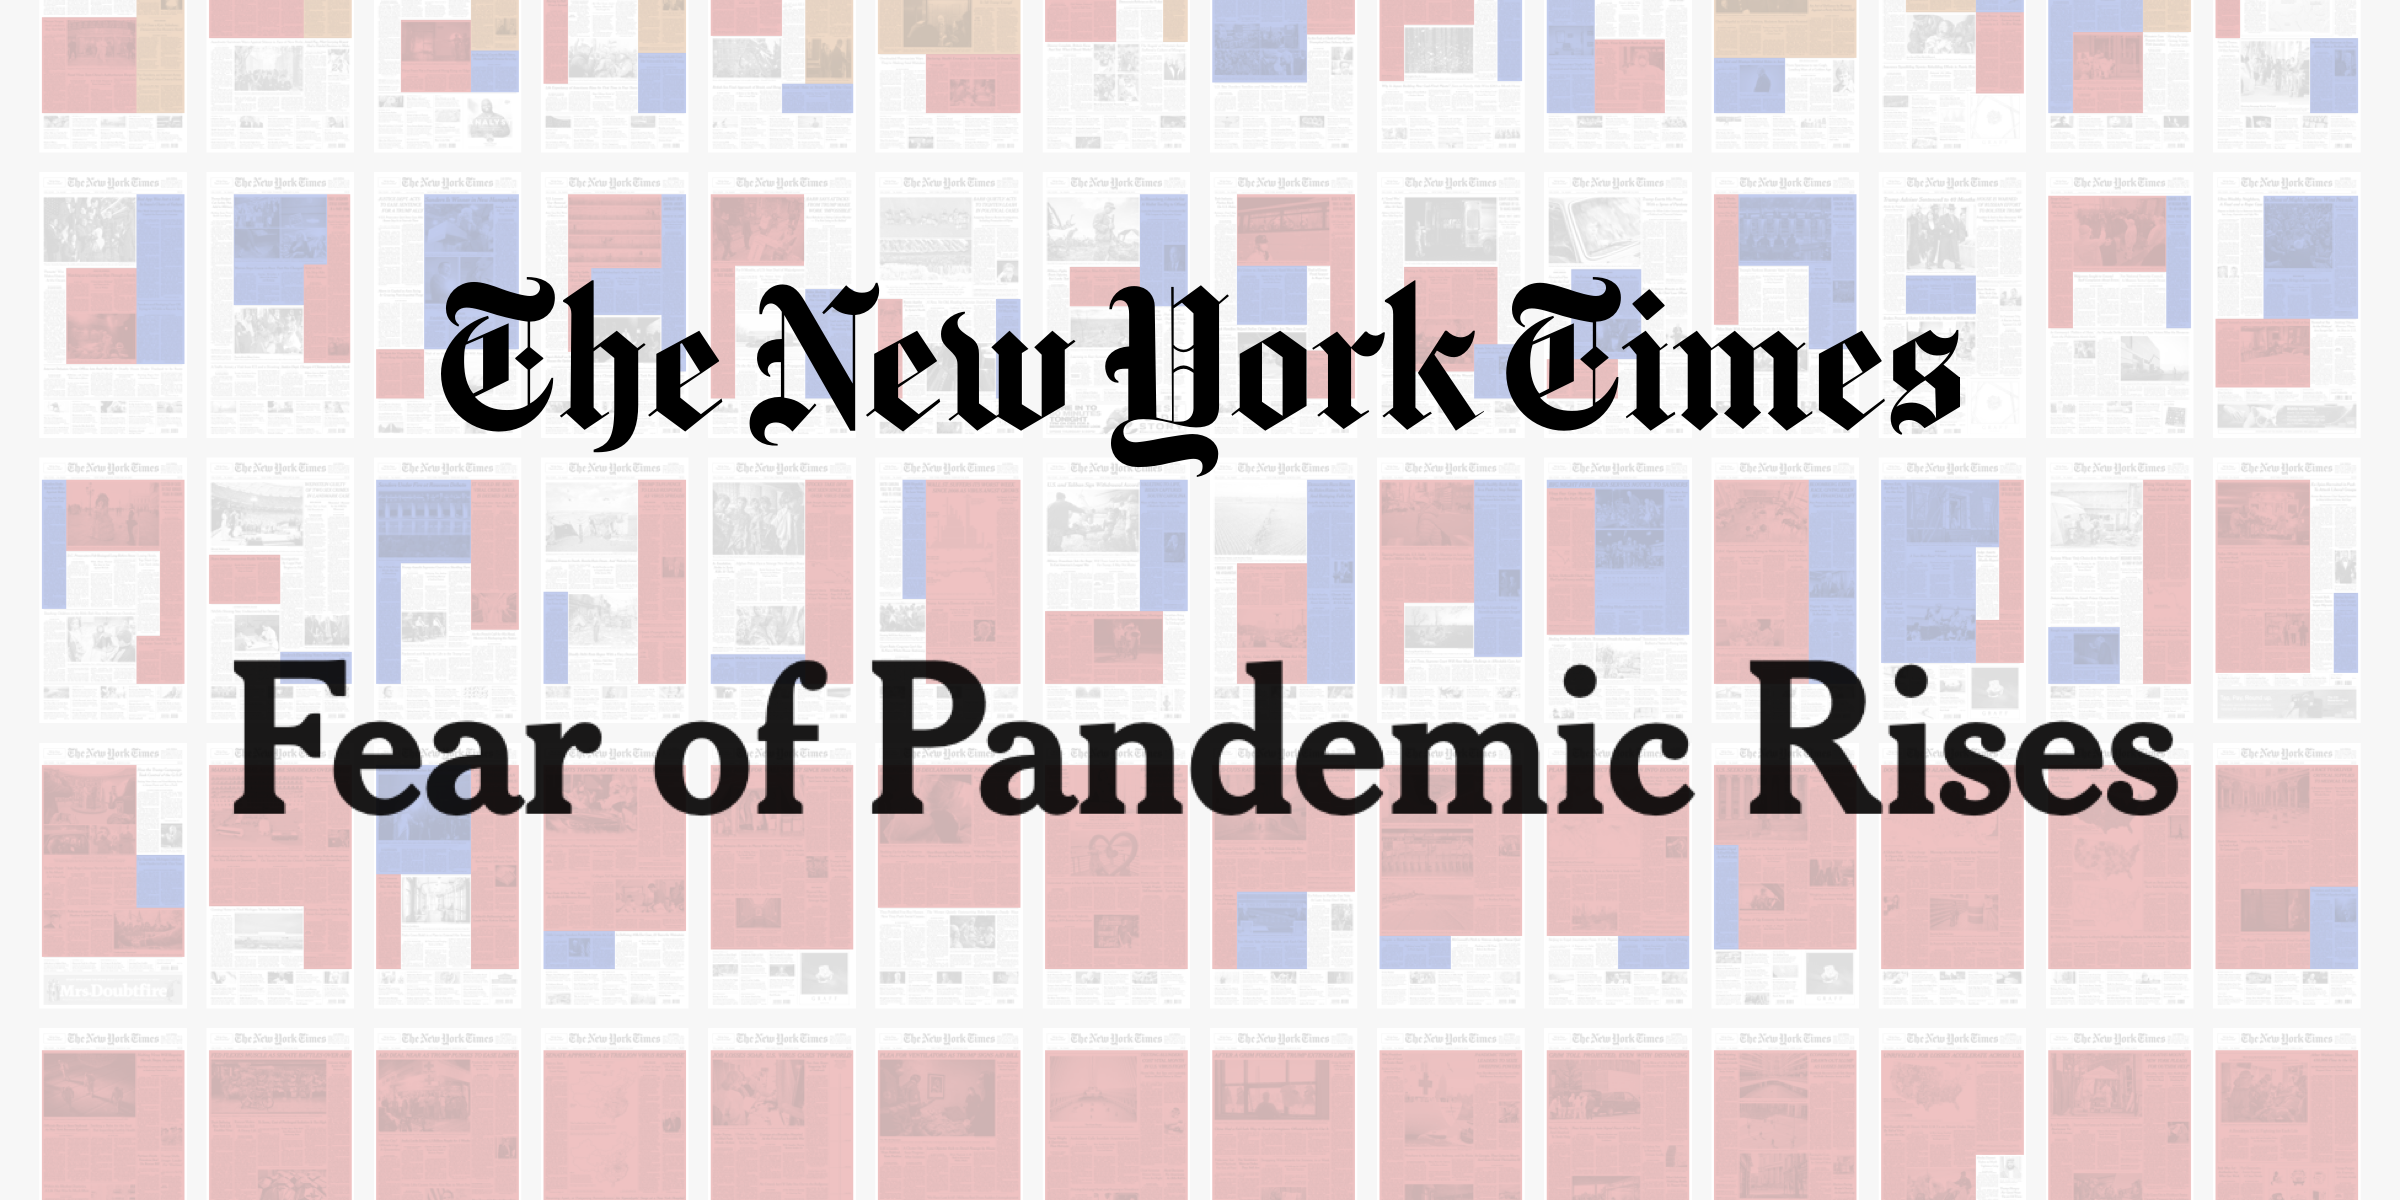
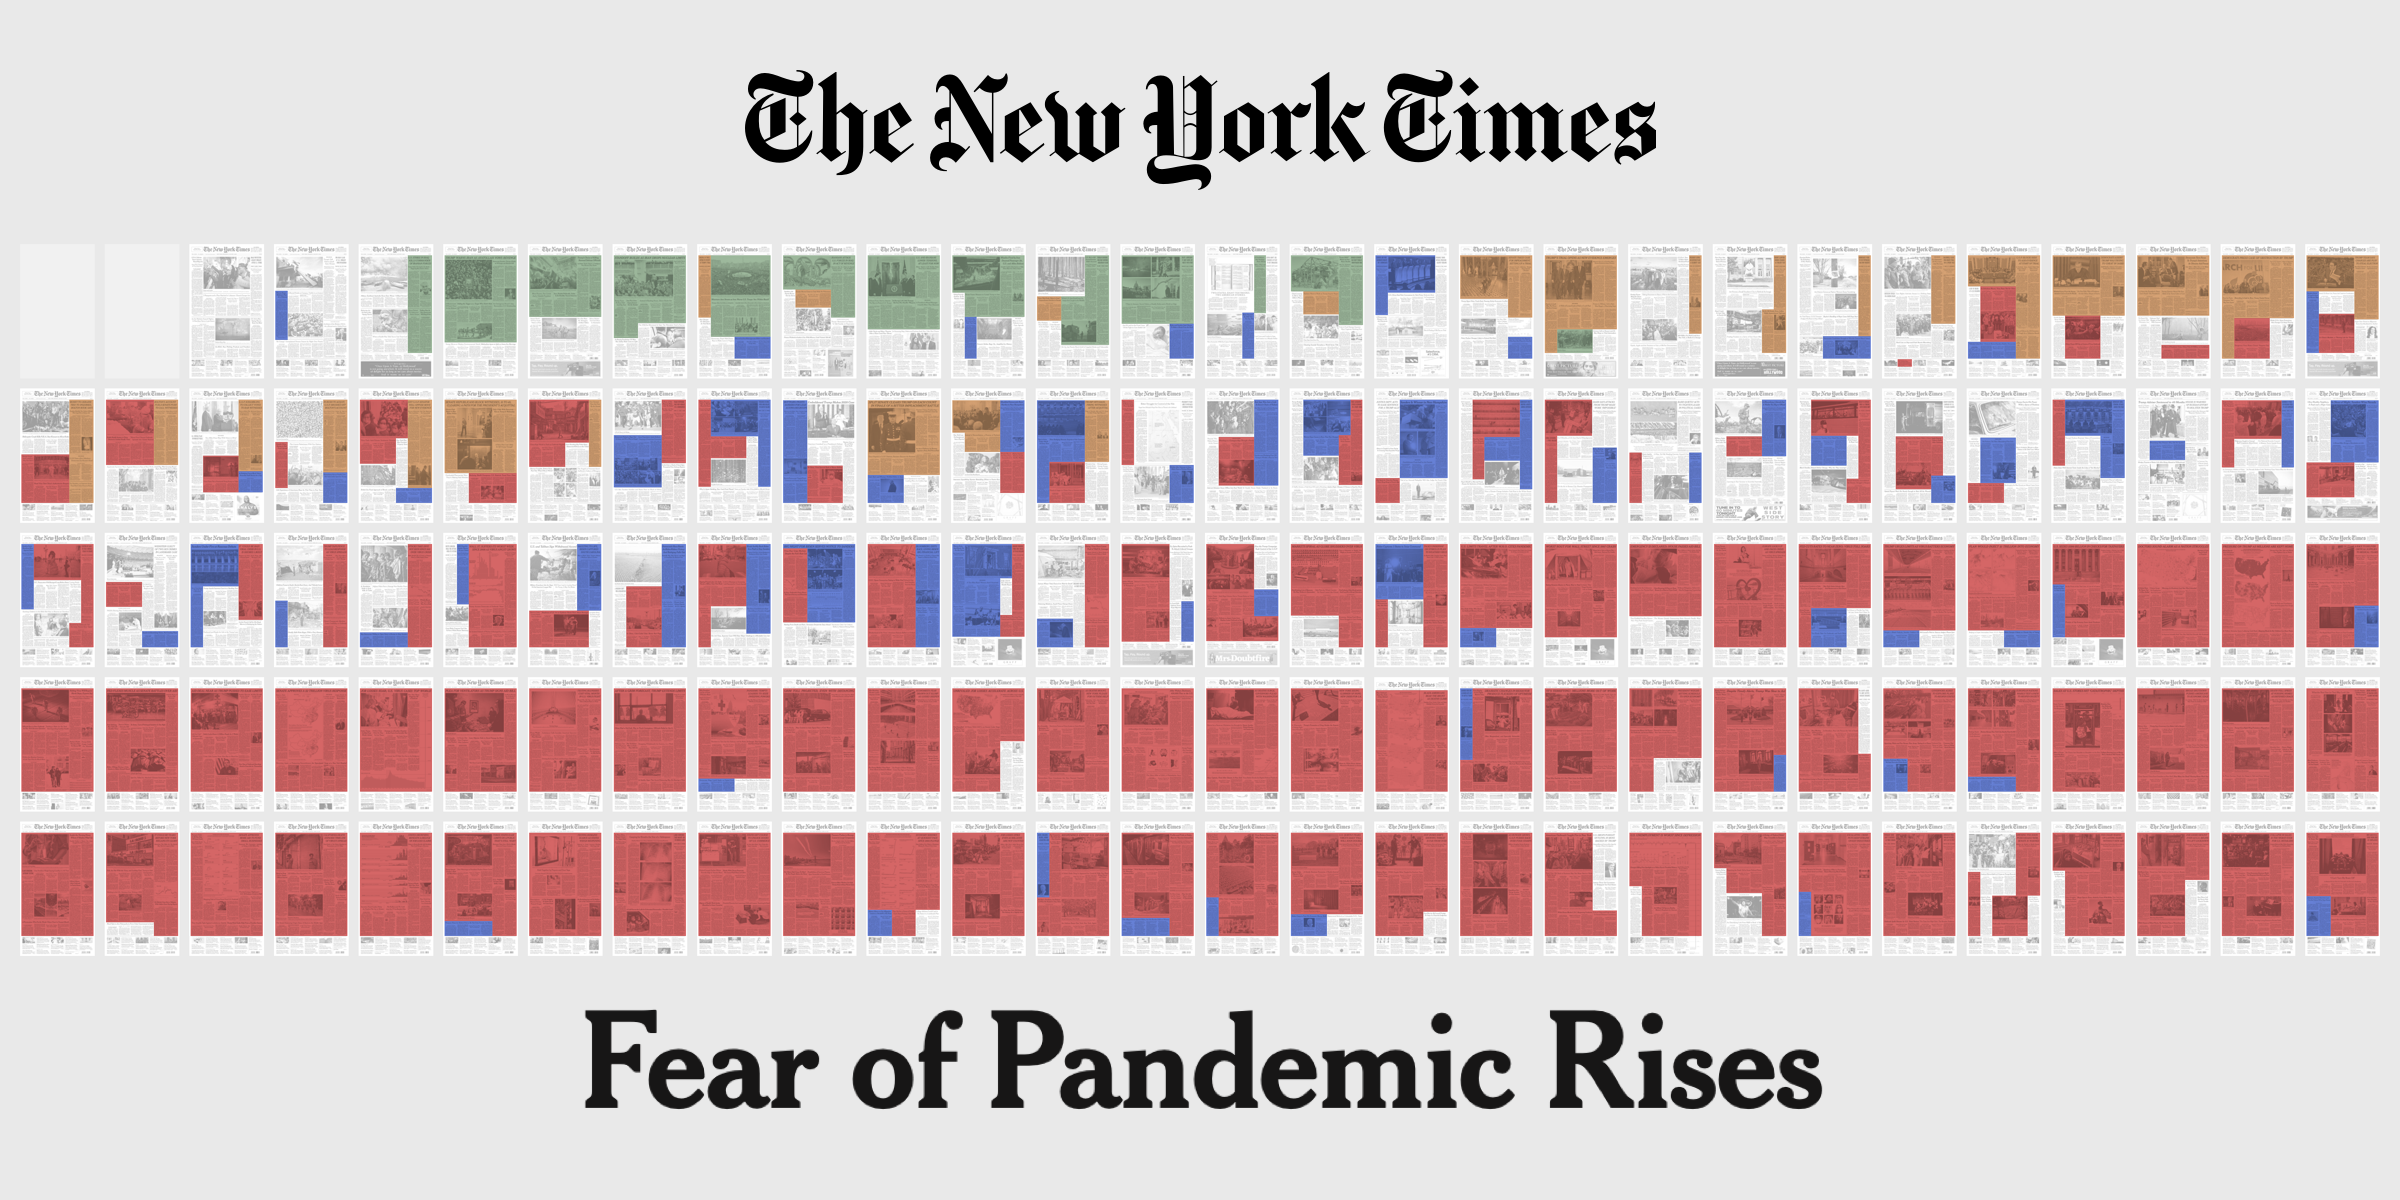
New week and overview

diff --git a/src/pages/projects/nyt.js b/src/pages/projects/nyt.js
@@ -7,6 +7,10 @@ import { graphql } from 'gatsby'
 
 import excerptImage from './nyt/excerpt.png'
 import shareImage from './nyt/feature-image.png'
+import overviewImage from './nyt/overview.jpg'
+
+import SocialTwitter from '../../components/graphics/SocialTwitter'
+import SocialFacebook from '../../components/graphics/SocialFacebook'
 
 import "./nyt/nyt.css"
 import Layout from '../../templates/Layout'
@@ -14,7 +18,7 @@ import Layout from '../../templates/Layout'
 const weekCommentary = [
   "The first big story of the year was the airstrike killing Gen. Suleimani, and the resulting [Conflict with Iran].",
   "[Conflict with Iran] dominated the headlines, with a lot of worry about a possible escalation to war. Iran downed a passenger jet.",
-  "As it de-escalated, [Conflict with Iran] disappeared from the headlines. The biggest news of the week was Senate taking up Trump’s [Impeachment] case. New debates in the [Democratic Primaries] race.",
+  "As it de-escalated, [Conflict with Iran] disappeared from the headlines. The biggest news of the week was the Senate taking up Trump’s [Impeachment] case. New debates in the [Democratic Primaries] race.",
   "With most news covering [Impeachment] trial, the very first mention of [Coronavirus] appeared on the front page: “Fear of Pandemic Rises” mentioned “at least 3 people dead”. First case in the US, and lockdown in Wuhan.",
   "Trump’s [Impeachment] news about witness blocking competed for attention against [Coronavirus]. US restricted travel from China.",
   "Iowa caucuses in [Democratic Primaries] and Trump’s acquittal in [Impeachment] trial dominated this week. [Coronavirus] news consistently appeared on every front page.",
@@ -22,15 +26,16 @@ const weekCommentary = [
   "Debates, and Sanders won Nevada in [Democratic Primaries]. Most of [Coronavirus] coverage was focused on Diamond Princess. Concerns over the threat of pandemic were raised.",
   "More debates in [Democratic Primaries]. [Coronavirus] coverage increased: Italy in lockdown, Pence tasked with leading the virus response force, and a big stock dive.",
   "Biden won Super Tuesday in [Democratic Primaries], Warren and Bloomberg left the race. Slight increase again in [Coronavirus] coverage.",
-  "This was the week when [Coronavirus] decisively took over the news. Italy's lockdown, stocks tumbling down even further, WHO declared the outbreak a pandemic.",
+  "This was the week when [Coronavirus] decisively took over the news. Italy’s lockdown, stocks tumbling down even further, WHO declared the outbreak a pandemic.",
   "[Coronavirus] coverage turns to the US. Shelter-in-place orders, FED cutting interest rate to zero, and early discussions of a stimulus package.",
-  "An exceptional week with every single article on the front page was only about [Coronavirus]. Senate approved a $2T stimulus package, massive jobless claims, US became the country with the most cases.",
+  "An exceptional week with every single article on the front page covering [Coronavirus]. Senate approved a $2T stimulus package, massive jobless claims, US became the country with the most cases.",
   "Another single-topic week, with almost all stories focusing on [Coronavirus]. Even more job losses, grim death estimates, New York overwhelmed with cases.",
   "[Coronavirus] maintained complete hold over the front page. What would be headline news during normal times, Sanders dropping out of the [Democratic Primaries] and making Biden a presumptive nominee, only got a sliver of the page.",
-  "With [Coronavirus] cases still increasing rapidly, coverage turned to reopening, and who who would be in power to command it.",
+  "With [Coronavirus] cases still increasing rapidly, coverage turned to reopening, and who would be in power to command it.",
   "More [Coronavirus]-covered front pages. Topics included unattributed deaths, comparison between states and Trump pushing suspect cures.",
   "[Coronavirus] coverage continues. Reopening and expected shrinking of the economy were the most common threads.",
   "[Coronavirus] has impacted every aspect of our lives so much that it is unavoidable in nearly every story. The only article that broke the trend was about the Justice Department dropping Flynn’s case.",
+  "While no story can compete with the hold [Coronavirus] has over the front pages, Flynn’s case appears on three of them.",
 ]
 
 const monthNames = ["Jan", "Feb", "Mar", "Apr", "May", "Jun", "Jul", "Aug", "Sep", "Oct", "Nov", "Dec"];
@@ -63,7 +68,7 @@ class NYTPage extends React.Component {
     let days = [{ code: "" }, { code: "" }]
     let jan1 = Date.parse('01 Jan 2020 04:00:00 GMT')
     let d = new Date(jan1)
-    for (let index = 0; index < (5 + 7 * 18); index++) {
+    for (let index = 0; index < (5 + 7 * 19); index++) {
       let month = (d.getMonth()+1).toString().padStart(2, '0')
       let date = d.getDate().toString().padStart(2, '0')
       let dayCode = `${month}-${date}`
@@ -130,6 +135,48 @@ class NYTPage extends React.Component {
         <p className="notes">
           <strong>Notes on the methodology:</strong> each 2020 New York Times front page has been annotated by single-theme stories that have consistently appeared for more than a week. Minor stories at the bottom of the front page have not been annotated. Coronavirus-related stories are not further split into subtopics (e.g. health, economics, or politics) because New York Times themselves don’t. The usual double-line marking hasn’t been used for Coronavirus, because articles often touch on multiple subtopics.
         </p>
+        <h2>Overview</h2>
+        <div className="overview-layout overview">
+          <div className="overview-content">
+            <a href={overviewImage}>
+              <img src={overviewImage} alt="Overview of all weeks" />
+            </a>
+          </div>
+          <div className="overview-commentary">
+            <p>Before delving into more detail about each week, it’s worthwhile to take a bird eye’s view at the year so far, and how the news coverage transition happened on macro scale.</p>
+            <p>The beginning of the year showed the usual cycle: there is usually one long-term story (<span className="ir">Conflict with Iran</span> for the first two weeks, <span className="im">Trump’s Impeachment</span> for the following three), but this story almost never fully covers the front page. As the story resolves, something else fills the void — in this case more focus on the <span className="dp">Democratic Primaries</span> race.</p>
+            <p><span className="cv">Coronavirus</span> does not fit this usual cycle. Starting with early March, almost every front page is exclusively covering the pandemic. These are not usual times — and this project explores these unusual New York Times front pages.</p>
+            <p>Below, you can read a Week by Week analysis, highlighting what topics where the most prominent each week.</p>
+            
+            <div className="article-footer secondary">
+              <p>Feel free to share this project or the overview image on social media. To save the image, right-click and select “Save Image As…”</p>
+              <p>
+                If you liked this project, you should <a href="https://twitter.com/lekevicius">follow me on Twitter</a> or <a href="https://tinyletter.com/lekevicius/">subscribe to my low-volume newsletter</a>.
+              </p>
+              <ul className="unstyled share-links">
+                <li><a
+                  href={`https://twitter.com/intent/tweet?text=${
+                    encodeURI("Fear of Pandemic Rises")
+                    }&amp;url=https://lekevicius.com/projects/nyt&amp;via=lekevicius`}
+                  onClick={(e) => {
+                    e.preventDefault();
+                    window.open(e.currentTarget.attributes.href.value, 'twitter-share', 'width=550,height=320');
+                    return false;
+                  }}
+                ><SocialTwitter /><span>Tweet</span></a></li>
+                <li><a
+                  href={`https://www.facebook.com/sharer/sharer.php?u=https://lekevicius.com/projects/nyt`}
+                  onClick={(e) => {
+                    e.preventDefault();
+                    window.open(e.currentTarget.attributes.href.value, 'facebook-share','width=580,height=320');
+                    return false;
+                  }}
+                ><SocialFacebook /><span>Share</span></a></li>
+              </ul>
+            </div>
+          </div>
+        </div>
+        <h2>Week by Week</h2>
         <div className="week-grid">
           { weeks.map((week, index) => 
             <div className={`week-row week-${index + 1}`} key={`week-${index + 1}`}>

diff --git a/src/pages/projects/nyt/nyt.css b/src/pages/projects/nyt/nyt.css
@@ -16,7 +16,7 @@ body.projects-nyt {
   background: #E9E9E9;
 }
 
-body.projects-nyt h1 {
+body.projects-nyt h1, body.projects-nyt h2 {
   font-family: 'Noticia Text', serif;
   font-weight: normal;
 }
@@ -108,6 +108,16 @@ body.projects-nyt .desktop-notice {
     display: none;
   }
 
+  body.projects-nyt .overview-layout {
+    display: flex;
+  }
+
+  body.projects-nyt .overview-commentary {
+    width: 248px;
+    flex-shrink: 0;
+    margin-left: 32px;
+  }
+
   body.projects-nyt .page-header-text {
     flex-grow: 1;
   }
@@ -194,32 +204,38 @@ body.projects-nyt .commentary p {
   margin: 0;
 }
 
-body.projects-nyt .commentary p span {
+body.projects-nyt .article-footer p {
+  font-size: 14px;
+  line-height: 24px;
+  color: #444;
+}
+
+body.projects-nyt p span {
   font-weight: 600;
 }
 body.projects-nyt .page-legend li.ir,
-body.projects-nyt .commentary p span.ir {
+body.projects-nyt p span.ir {
   color: #547E53;
 }
 body.projects-nyt .page-legend li.ir .dot-icon {
   background: #547E53;
 }
 body.projects-nyt .page-legend li.im,
-body.projects-nyt .commentary p span.im {
+body.projects-nyt p span.im {
   color: #A95813;
 }
 body.projects-nyt .page-legend li.im .dot-icon {
   background: #A95813;
 }
 body.projects-nyt .page-legend li.dp,
-body.projects-nyt .commentary p span.dp {
+body.projects-nyt p span.dp {
   color: #0026A8;
 }
 body.projects-nyt .page-legend li.dp .dot-icon {
   background: #0026A8;
 }
 body.projects-nyt .page-legend li.cv,
-body.projects-nyt .commentary p span.cv {
+body.projects-nyt p span.cv {
   color: #A80000;
 }
 body.projects-nyt .page-legend li.cv .dot-icon {
